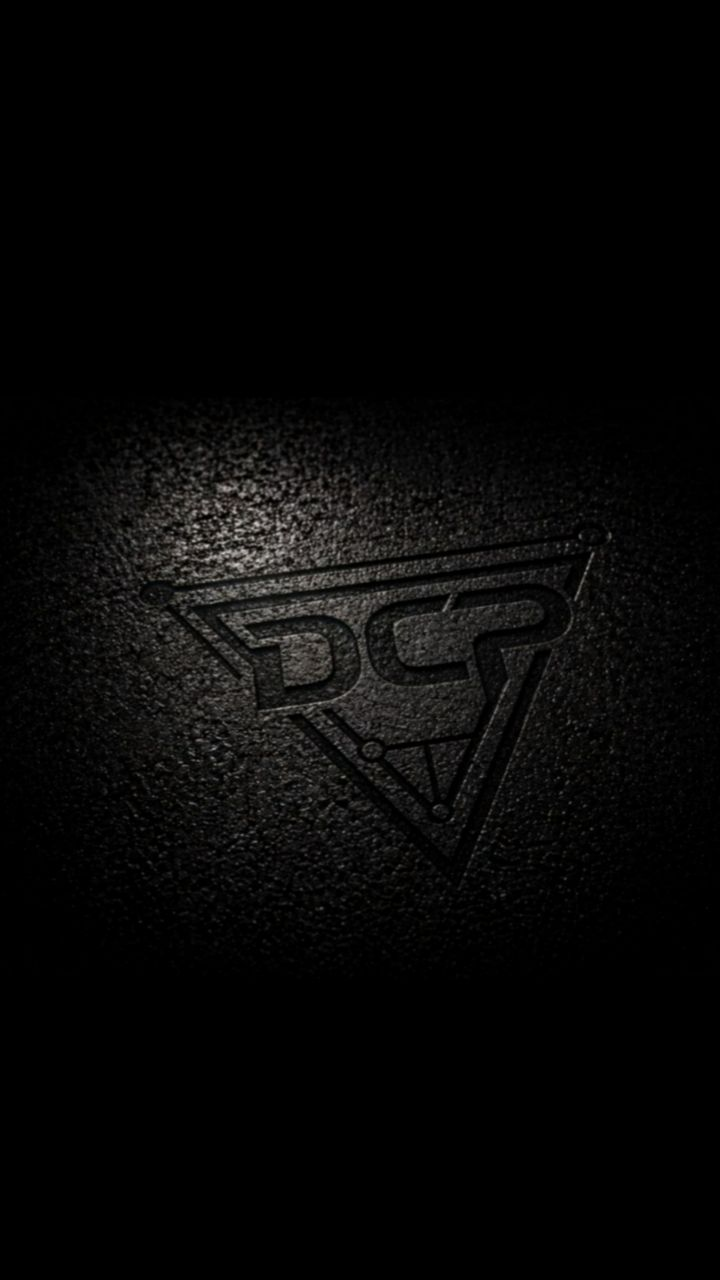
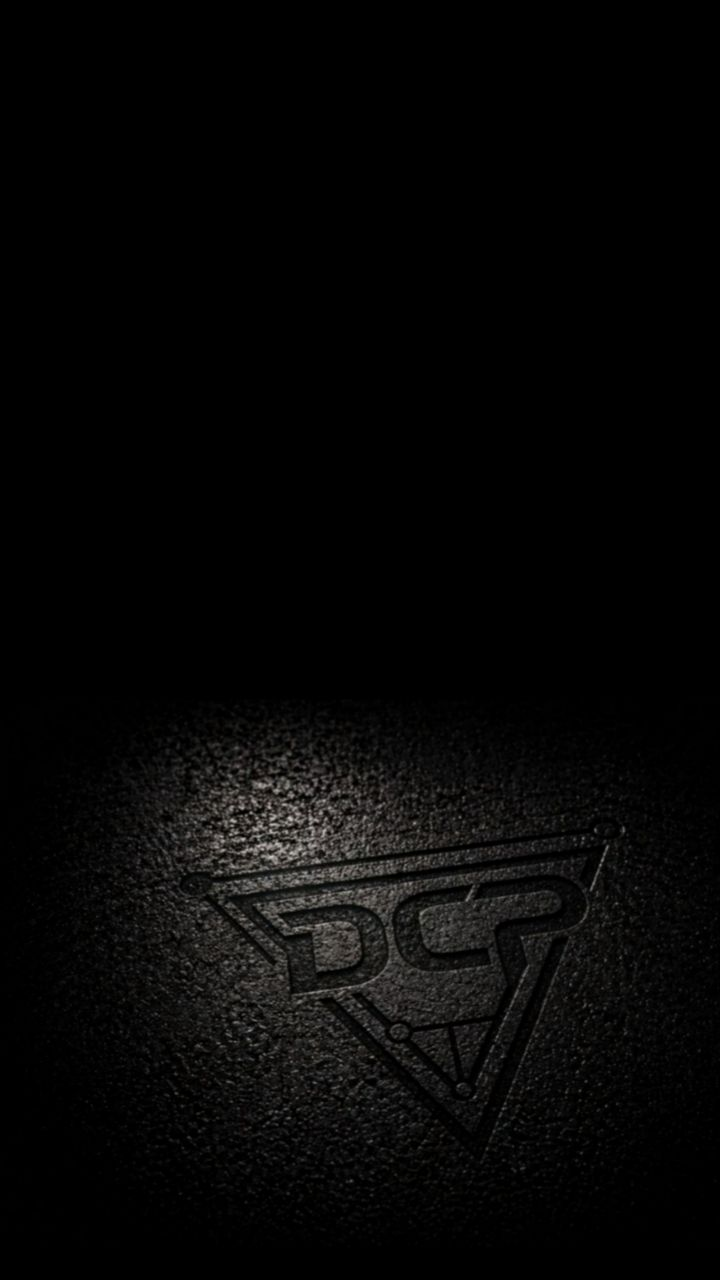
update

Changed region(s): [[0.0917, 0.3438, 0.8861, 0.9062]]

diff --git a/app/future/page.js b/app/future/page.js
@@ -76,11 +76,20 @@ export default function FuturePage() {
 {/* FIXED BACKGROUND STAGE */}
 <div className="pointer-events-none fixed inset-0 z-0 bg-black">
    <div
-  className="absolute inset-0 bg-no-repeat opacity-100"
+  className="absolute inset-0 hidden bg-no-repeat opacity-100 md:block"
   style={{
     backgroundImage: "url('/images/backgrounds/DCP-future.jpg')",
     backgroundSize: "67% auto",
     backgroundPosition: "center 8%",
+  }}
+/>
+
+<div
+  className="absolute inset-0 bg-no-repeat opacity-100 md:hidden"
+  style={{
+    backgroundImage: "url('/images/backgrounds/DCP-Futures-mobile.jpg')",
+    backgroundSize: "100% auto",
+    backgroundPosition: "center center",
   }}
 />
 
